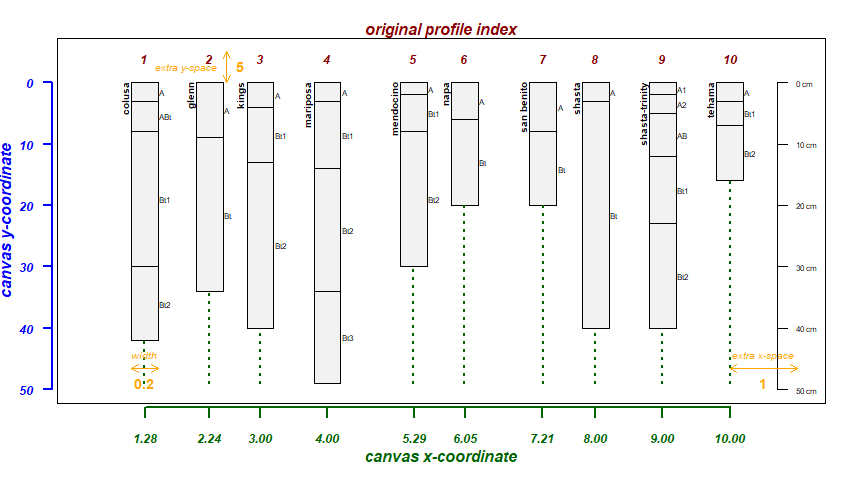
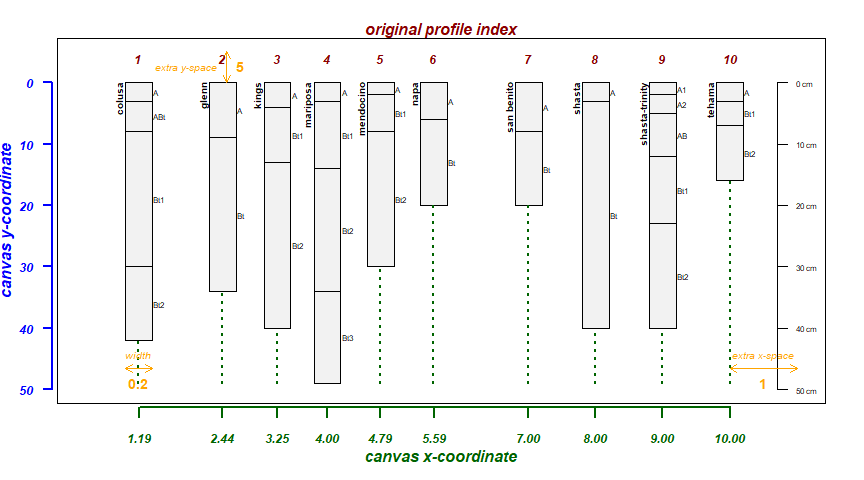
removing junk

diff --git a/_aqpbook/SPC.html b/_aqpbook/SPC.html
@@ -327,8 +327,8 @@ code span.wa { color: #60a0b0; font-weight: bold; font-style: italic; } /* Warni
 <span id="cb8-6"><a href="SPC.html#cb8-6"></a>sp4<span class="op">$</span>clay <span class="co"># vector of clay content (horizon data)</span></span></code></pre></div>
 <pre class="outputBlock"><code>##  [1] 21 27 32 55 25 34  3 15 27 32 25 31 33 13 21 23 15 17 12 19 14 14 22 25 40 51 67 24 25 32</code></pre>
 <div class="sourceCode" id="cb10"><pre class="sourceCode r codeBlock"><code class="sourceCode r"><span id="cb10-1"><a href="SPC.html#cb10-1"></a>sp4<span class="op">$</span>elevation <span class="co"># vector of simulated elevation (site data)</span></span></code></pre></div>
-<pre class="outputBlock"><code>##  [1]  987.9655 1093.2427 1096.8732 1044.2087  855.1873  693.9912 1257.2578 1360.2991 1049.1245
-## [10] 1153.0700</code></pre>
+<pre class="outputBlock"><code>##  [1]  877.0526 1263.6217  747.9072  929.1071  928.9107  974.1478  663.9727  822.5178 1189.2670
+## [10] 1212.7675</code></pre>
 <div class="sourceCode" id="cb12"><pre class="sourceCode r codeBlock"><code class="sourceCode r"><span id="cb12-1"><a href="SPC.html#cb12-1"></a><span class="co"># assign a single single value into horizon-level attributes</span></span>
 <span id="cb12-2"><a href="SPC.html#cb12-2"></a>sp4<span class="op">$</span>constant &lt;-<span class="st"> </span><span class="kw">rep</span>(<span class="dv">1</span>, <span class="dt">times=</span><span class="kw">nrow</span>(sp4))</span>
 <span id="cb12-3"><a href="SPC.html#cb12-3"></a></span>
@@ -373,12 +373,12 @@ code span.wa { color: #60a0b0; font-weight: bold; font-style: italic; } /* Warni
 ## 
 ## ----- Sites (6 / 10 rows  |  4 / 4 columns) -----
 ##         id elevation constant group
-##     colusa  987.9655        1     A
-##      glenn 1093.2427        1     B
-##      kings 1096.8732        1     A
-##   mariposa 1044.2087        1     B
-##  mendocino  855.1873        1     A
-##       napa  693.9912        1     B
+##     colusa  877.0526        1     A
+##      glenn 1263.6217        1     B
+##      kings  747.9072        1     A
+##   mariposa  929.1071        1     B
+##  mendocino  928.9107        1     A
+##       napa  974.1478        1     B
 ## [... more sites ...]
 ## 
 ## Spatial Data: [EMPTY]</code></pre>
@@ -453,16 +453,16 @@ code span.wa { color: #60a0b0; font-weight: bold; font-style: italic; } /* Warni
 <span id="cb18-8"><a href="SPC.html#cb18-8"></a><span class="co"># extract coordinates as matrix</span></span>
 <span id="cb18-9"><a href="SPC.html#cb18-9"></a><span class="kw">coordinates</span>(sp4)</span></code></pre></div>
 <pre class="outputBlock"><code>##           x       y
-## 1  354045.1 4109591
-## 2  354047.4 4109438
-## 3  353899.1 4109764
-## 4  354109.4 4109588
-## 5  353803.0 4109303
-## 6  353972.4 4109497
-## 7  353933.5 4109542
-## 8  354139.5 4109582
-## 9  354241.1 4109410
-## 10 354104.7 4109622</code></pre>
+## 1  353962.5 4109544
+## 2  354101.2 4109680
+## 3  353925.4 4109490
+## 4  354103.8 4109436
+## 5  353825.7 4109639
+## 6  353865.4 4109367
+## 7  354035.4 4109535
+## 8  353988.3 4109564
+## 9  354119.8 4109495
+## 10 354107.9 4109693</code></pre>
 <div class="sourceCode" id="cb20"><pre class="sourceCode r codeBlock"><code class="sourceCode r"><span id="cb20-1"><a href="SPC.html#cb20-1"></a><span class="co"># get/set spatial reference system using PROJ4 syntax</span></span>
 <span id="cb20-2"><a href="SPC.html#cb20-2"></a><span class="kw">proj4string</span>(sp4) &lt;-<span class="st"> &#39;+proj=utm +zone=11 +datum=NAD83&#39;</span></span>
 <span id="cb20-3"><a href="SPC.html#cb20-3"></a><span class="kw">proj4string</span>(sp4)</span></code></pre></div>
@@ -1040,13 +1040,13 @@ code span.wa { color: #60a0b0; font-weight: bold; font-style: italic; } /* Warni
 <span id="cb84-28"><a href="SPC.html#cb84-28"></a><span class="co"># note: horizon names are lost due to aggregation</span></span>
 <span id="cb84-29"><a href="SPC.html#cb84-29"></a><span class="kw">head</span>(d.gsm, <span class="dv">7</span>)</span></code></pre></div>
 <pre class="outputBlock"><code>##   variable id     value top bottom contributing_fraction
-## 1       p1  1 12.289754   0      5             1.0000000
-## 2       p1  1 12.289754   5     15             1.0000000
-## 3       p1  1 11.896758  15     30             1.0000000
-## 4       p1  1  9.877762  30     60             1.0000000
-## 5       p1  1  7.000099  60    100             1.0000000
-## 6       p1  1  5.848694 100    200             0.5507246
-## 7       p1  2 19.356638   0      5             1.0000000</code></pre>
+## 1       p1  1 62.569642   0      5             1.0000000
+## 2       p1  1 62.421604   5     15             1.0000000
+## 3       p1  1 62.076180  15     30             1.0000000
+## 4       p1  1 56.172218  30     60             1.0000000
+## 5       p1  1 44.245616  60    100             1.0000000
+## 6       p1  1 35.929734 100    200             0.7105263
+## 7       p1  2  7.500784   0      5             1.0000000</code></pre>
 <p>A simple graphical comparison of the original and re-aligned soil profile data.</p>
 <div class="sourceCode" id="cb86"><pre class="sourceCode r codeBlock"><code class="sourceCode r"><span id="cb86-1"><a href="SPC.html#cb86-1"></a><span class="co"># reshape to wide format</span></span>
 <span id="cb86-2"><a href="SPC.html#cb86-2"></a><span class="co"># this scales to &gt; 1 aggregated variables</span></span>
